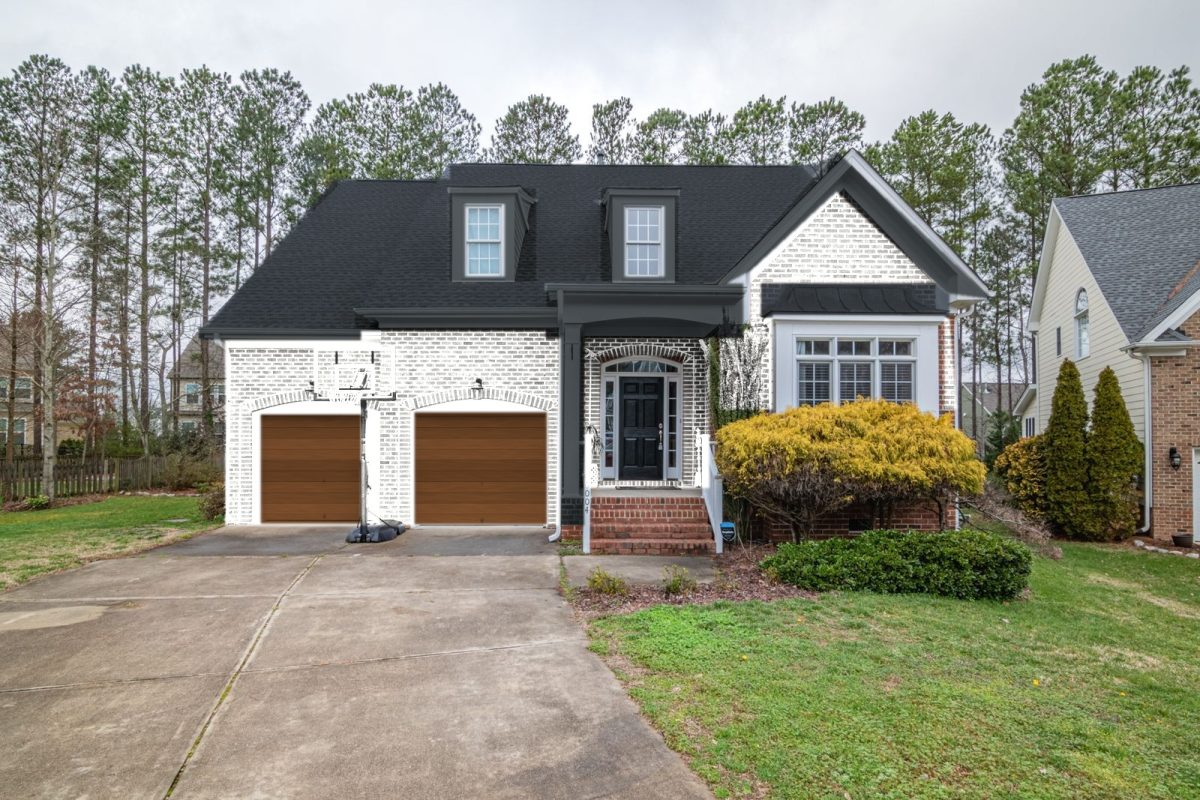
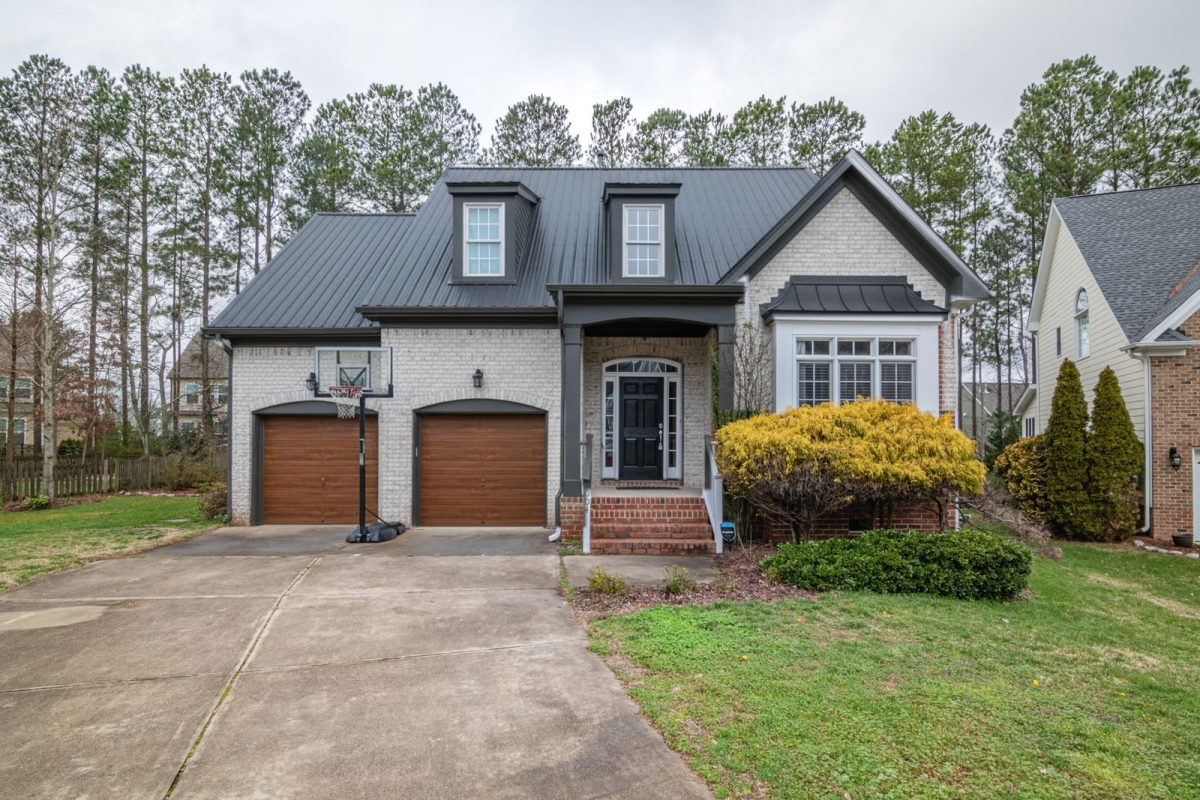
Show Gemini's photoreal renders on the sign-in page, and say AI
The sign-in page's after images were the instant preview. Now
render_showcase.py runs each preview through the same Gemini photoreal
pass as the studio, merged back onto the photo, so the page shows what
the AI render really produces; the arrows and prices are unchanged.
Each render was checked by eye and re-rendered when Gemini dropped or
recoloured something (two-storey trim, craftsman porch furniture).
The script retries when Gemini is busy and takes --only and --instant.

The headline and summary now say what the AI does, and the badge reads
After, rendered by AI.

Changed region(s): [[0.1542, 0.1875, 0.8325, 0.6875]]

diff --git a/exterio-frontend/src/presentation/features/auth/pages/LoginPage/index.tsx b/exterio-frontend/src/presentation/features/auth/pages/LoginPage/index.tsx
@@ -6,9 +6,9 @@ import { BeforeAfterShowcase } from '@/presentation/features/auth/molecules/Befo
 import { EmailAuthForm } from '@/presentation/features/auth/organisms/EmailAuthForm';
 import { SampleHouseAccess } from '@/presentation/features/auth/organisms/SampleHouseAccess';
 
-const HEADLINE = 'See your house in new finishes, and what they cost';
+const HEADLINE = 'See your house redesigned by AI, and what it will cost';
 const SUMMARY =
-  'Upload one photo, mark the walls, roof and doors, choose paint, stone or cladding, and get quantities and a rupee estimate to take to your contractor.';
+  'Upload one photo. AI finds the walls, roof and doors, shows them in the paint, stone or cladding you choose, and works out the quantities and a rupee estimate to take to your contractor.';
 
 function ProductStory() {
   return (

diff --git a/exterio-frontend/src/presentation/features/auth/molecules/BeforeAfterShowcase/index.tsx b/exterio-frontend/src/presentation/features/auth/molecules/BeforeAfterShowcase/index.tsx
@@ -62,12 +62,12 @@ export function BeforeAfterShowcase({ houses = SHOWCASE_HOUSES }: BeforeAfterSho
         >
           <img
             src={showcaseImage(house.key, 'after')}
-            alt={`${house.house} with the ${house.design} design`}
+            alt={`${house.house} with the ${house.design} design, rendered by AI`}
             className="absolute inset-0 h-full w-full"
           />
           <span className={cn(CHIP, 'left-3 inline-flex items-center gap-1.5 bg-brand-700/95')}>
             <LogoMark className="h-3.5 w-3.5" />
-            After, in Exterio
+            After, rendered by AI
           </span>
         </div>
         <div

diff --git a/exterio-frontend/src/presentation/features/auth/molecules/BeforeAfterShowcase/__tests__/BeforeAfterShowcase.test.tsx b/exterio-frontend/src/presentation/features/auth/molecules/BeforeAfterShowcase/__tests__/BeforeAfterShowcase.test.tsx
@@ -19,10 +19,9 @@ describe('BeforeAfterShowcase', () => {
       'src',
       `/showcase/${FIRST.key}-before.jpg`
     );
-    expect(screen.getByAltText(`${FIRST.house} with the ${FIRST.design} design`)).toHaveAttribute(
-      'src',
-      `/showcase/${FIRST.key}-after.jpg`
-    );
+    expect(
+      screen.getByAltText(`${FIRST.house} with the ${FIRST.design} design, rendered by AI`)
+    ).toHaveAttribute('src', `/showcase/${FIRST.key}-after.jpg`);
     expect(screen.getByText(`${FIRST.house} · ${FIRST.design}`)).toBeInTheDocument();
     expect(screen.getByText(/^Estimated ₹/)).toBeInTheDocument();
   });

diff --git a/exterio-backend/scripts/render_showcase.py b/exterio-backend/scripts/render_showcase.py
@@ -1,16 +1,22 @@
 """Renders the before / after pairs shown on the sign-in page, and the arrows drawn on them.
 
-Each sample house is rendered with its finished design by the same instant preview the studio
-uses, and priced by the same estimate, so the sign-in page shows exactly what the product does:
-the photo, the new finishes, and an arrow from each of the three costliest finishes to the part it
-is on. Run from exterio-backend after changing a sample house, the renderer or the rates:
+Each sample house is rendered with its finished design the way the studio does it: the instant
+preview, then the photoreal pass on Gemini's image model, merged back onto the photo (edited
+pixels inside the refinished parts, the original photo elsewhere). It is priced by the same
+estimate, so the sign-in page shows exactly what the product does: the photo, the new finishes,
+and an arrow from each of the three costliest finishes to the part it is on. Run from
+exterio-backend after changing a sample house, the renderer or the rates (needs
+GOOGLE_VERTEX_CREDENTIALS; --instant uses the instant preview instead):
 
     uv run python scripts/render_showcase.py
+    uv run python scripts/render_showcase.py --only craftsman   # re-render one house
 """
 
+import argparse
 import json
 import subprocess
 import sys
+import time
 from datetime import UTC, datetime
 from pathlib import Path
 
@@ -19,14 +25,20 @@ import numpy as np
 
 sys.path.insert(0, str(Path(__file__).resolve().parents[1] / "src"))
 
+from bootstrap.env import load_settings
 from domain.entities.design_entity import Design
 from domain.entities.project_entity import Project, ProjectImage
 from domain.entities.region_entity import Region, RegionLabel
-from domain.interfaces.services.image_services import PreviewRequest, SampleHouse
+from domain.errors.project_errors import AiProviderError
+from domain.interfaces.services.image_services import PreviewRequest, RenderFinish, SampleHouse
 from domain.services.estimate_builder import build_estimate
 from domain.use_cases.estimate.measure_facade_usecase import MeasureFacadeUseCase
 from infrastructure.repository.implementation.material_repo_impl import (
     JsonMaterialRepository,
+)
+from infrastructure.services.ai.gemini_client import build_gemini_client
+from infrastructure.services.ai.gemini_photoreal_render_service import (
+    GeminiPhotorealRenderService,
 )
 from infrastructure.services.imaging.image_codec import decode_image
 from infrastructure.services.imaging.opencv_preview_render_service import (
@@ -45,6 +57,9 @@ DATA_FILE = FRONTEND / "src" / "presentation" / "features" / "auth" / "utils" / 
 WIDTH_PX = 1200
 JPEG_QUALITY = 82
 CALLOUTS_PER_HOUSE = 3
+RENDER_ATTEMPTS = 4
+# The Vertex project allows only a few image requests a minute.
+RENDER_RETRY_SECONDS = 25
 
 # How a finish is named on its arrow; anything else uses its catalogue name.
 FINISH_NAMES = {
@@ -66,29 +81,54 @@ PART_NAMES = {
 
 
 def main() -> None:
+    parser = argparse.ArgumentParser(description=__doc__.split("\n\n")[0])
+    parser.add_argument("--only", nargs="+", help="Re-render only these houses, e.g. craftsman")
+    parser.add_argument("--instant", action="store_true", help="Use the instant preview only")
+    args = parser.parse_args()
+
     OUTPUT_DIR.mkdir(parents=True, exist_ok=True)
-    provider, materials, renderer = (
+    provider, materials, preview = (
         PhotoSampleHouseProvider(),
         JsonMaterialRepository(),
         OpenCvPreviewRenderService(),
     )
+    photoreal = None if args.instant else _photoreal()
     houses = []
     for summary in provider.samples():
         house = provider.build(summary.key)
         houses.append({"key": summary.key, **describe(house)})
-        request = PreviewRequest(
-            image=house.image,
-            regions=house.regions,
-            materials_by_region={
-                region_id: material
-                for region_id, material_id in house.assignments.items()
-                if (material := materials.find_by_id(material_id)) is not None
-            },
-            facade_corners=house.scale.facade_corners,
-            facade_width_ft=house.scale.facade_width_ft,
-            facade_height_ft=house.scale.facade_height_ft,
+        if args.only and summary.key not in args.only:
+            continue
+        by_region = {
+            region_id: material
+            for region_id, material_id in house.assignments.items()
+            if (material := materials.find_by_id(material_id)) is not None
+        }
+        after = preview.render(
+            PreviewRequest(
+                image=house.image,
+                regions=house.regions,
+                materials_by_region=by_region,
+                facade_corners=house.scale.facade_corners,
+                facade_width_ft=house.scale.facade_width_ft,
+                facade_height_ft=house.scale.facade_height_ft,
+            )
         )
-        for suffix, data in (("before", house.image), ("after", renderer.render(request))):
+        if photoreal is not None:
+            finishes: dict[RenderFinish, None] = {}
+            for region in house.regions:
+                if (material := by_region.get(region.id)) is not None:
+                    surface = region.label.replace("_", " ")
+                    finishes[
+                        RenderFinish(
+                            surface, material.name, material.description, material.color_hex
+                        )
+                    ] = None
+            edited = _render_with_retries(photoreal, after, tuple(finishes), summary.key)
+            after = preview.merge_with_original(
+                house.image, edited, house.regions, frozenset(by_region)
+            )
+        for suffix, data in (("before", house.image), ("after", after)):
             image = decode_image(data)
             height = round(image.shape[0] * WIDTH_PX / image.shape[1])
             resized = cv2.resize(image, (WIDTH_PX, height), interpolation=cv2.INTER_AREA)
@@ -96,6 +136,33 @@ def main() -> None:
             cv2.imwrite(str(path), resized, [cv2.IMWRITE_JPEG_QUALITY, JPEG_QUALITY])
             print(f"{path.name}  {path.stat().st_size // 1024} KB")
     write_data(houses)
+
+
+def _photoreal() -> GeminiPhotorealRenderService:
+    settings = load_settings()
+    client = build_gemini_client(
+        settings.google_vertex_credentials, settings.google_vertex_location, 150
+    )
+    if client is None:
+        raise SystemExit("GOOGLE_VERTEX_CREDENTIALS is not set; use --instant for the preview.")
+    return GeminiPhotorealRenderService(client, settings.gemini_image_model, 1000)
+
+
+def _render_with_retries(
+    renderer: GeminiPhotorealRenderService,
+    composite: bytes,
+    finishes: tuple[RenderFinish, ...],
+    key: str,
+) -> bytes:
+    for attempt in range(1, RENDER_ATTEMPTS + 1):
+        try:
+            return renderer.render(composite, finishes)
+        except AiProviderError as error:
+            if attempt == RENDER_ATTEMPTS:
+                raise
+            print(f"{key}: {error} Waiting {RENDER_RETRY_SECONDS}s.")
+            time.sleep(RENDER_RETRY_SECONDS)
+    raise AssertionError("unreachable")
 
 
 def describe(house: SampleHouse) -> dict[str, object]:

diff --git a/README.md b/README.md
@@ -154,8 +154,11 @@ Each one's parts, finished design and starting stage (photo only, parts, designe
 traced by hand in
 `exterio-backend/src/infrastructure/services/imaging/sample_houses/<name>/house.json`, so the
 samples work without AI detection. The before / after pairs on the sign-in page are rendered from
-them by the instant preview; after changing a sample or the renderer, run
-`uv run python scripts/render_showcase.py` in `exterio-backend`.
+them the way the studio does it, the instant preview followed by the photoreal pass on Gemini and
+merged back onto the photo; after changing a sample or the renderer, run
+`uv run python scripts/render_showcase.py` in `exterio-backend` (`--only <house>` re-renders one,
+`--instant` uses the instant preview alone). Each render was checked by eye for anything Gemini
+dropped or recoloured, and re-rendered when it had.
 
 ## How AI tools were used
 
